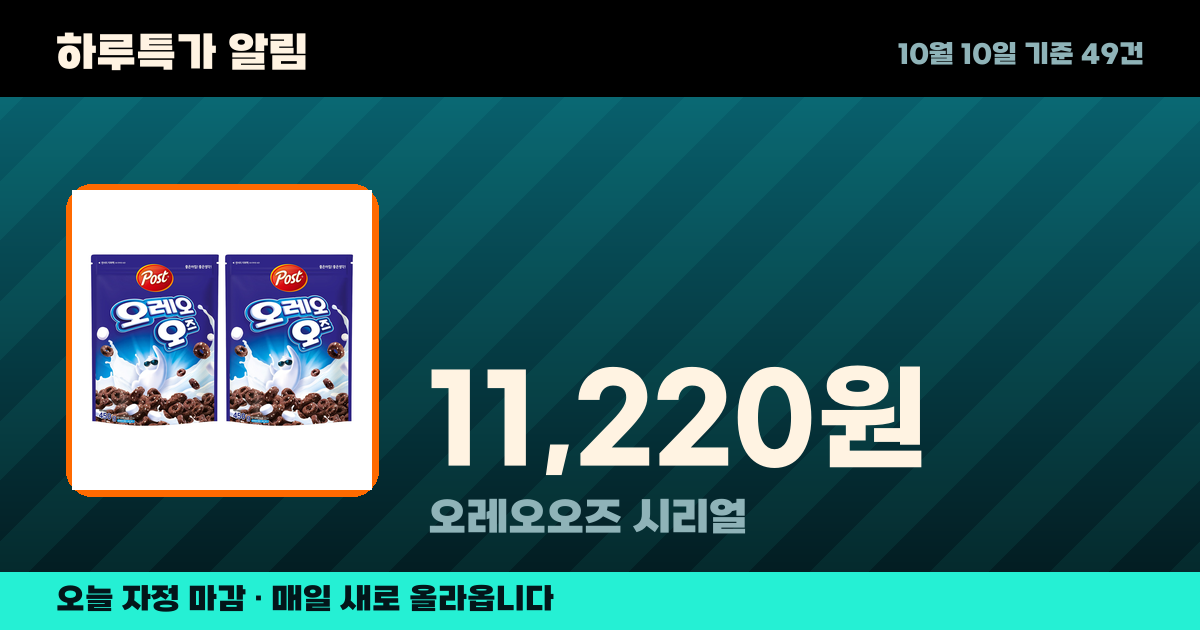
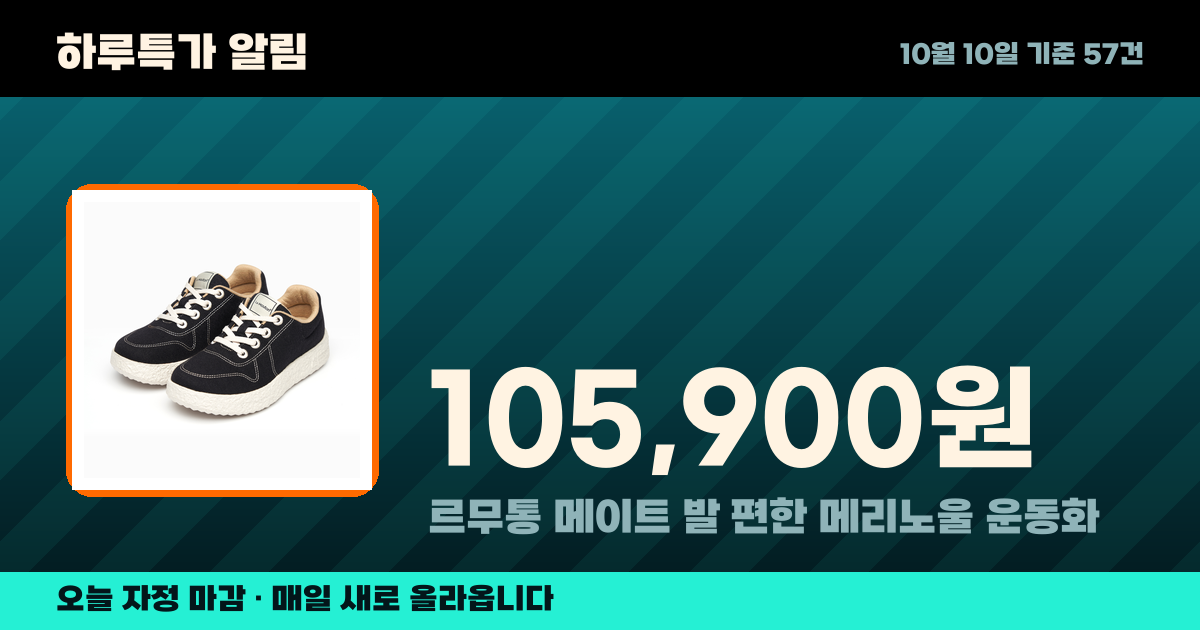
특가 갱신 2026-10-10 01:11

diff --git a/index.html b/index.html
@@ -4,13 +4,13 @@
 <meta charset="utf-8">
 <meta name="viewport" content="width=device-width,initial-scale=1">
 <title>하루특가 알림 — 오늘의 특가 모음</title>
-<meta name="description" content="오늘 49건, 최대 89% 할인. 자정에 끝납니다.">
+<meta name="description" content="오늘 57건, 최대 89% 할인. 자정에 끝납니다.">
 <meta name="robots" content="index,follow">
 <meta property="og:type" content="website">
 <meta property="og:title" content="하루특가 알림 — 오늘의 특가 모음">
-<meta property="og:description" content="오늘 49건, 최대 89% 할인. 자정에 끝납니다.">
+<meta property="og:description" content="오늘 57건, 최대 89% 할인. 자정에 끝납니다.">
 <meta property="og:url" content="https://hjhca12-art.github.io/daily-deal-alarm/">
-<meta property="og:image" content="https://hjhca12-art.github.io/daily-deal-alarm/og.png?v=202610100108">
+<meta property="og:image" content="https://hjhca12-art.github.io/daily-deal-alarm/og.png?v=202610100111">
 <meta property="og:image:width" content="1200">
 <meta property="og:image:height" content="630">
 <meta name="twitter:card" content="summary_large_image">
@@ -185,7 +185,7 @@ footer{margin-top:36px;text-align:center;color:#5d7d83;font-size:11px;
   <div class="tools">
     <input id="q" class="search" type="search" autocomplete="off"
            placeholder="상품 검색 (예: 김치, 커피)">
-    <div class="chips" data-group="cat"><button class="chip on" data-cat="">전체 149</button><button class="chip vid" data-cat="__video">🎬 영상에서 소개한 제품 100</button><button class="chip" data-cat="식품">식품 79</button><button class="chip" data-cat="생활">생활 20</button><button class="chip" data-cat="주방">주방 4</button><button class="chip" data-cat="뷰티">뷰티 5</button><button class="chip" data-cat="건강">건강 4</button><button class="chip" data-cat="홈">홈 4</button><button class="chip" data-cat="디지털">디지털 1</button><button class="chip" data-cat="패션">패션 3</button><button class="chip" data-cat="반려동물">반려동물 1</button><button class="chip" data-cat="여행">여행 1</button><button class="chip" data-cat="기타">기타 27</button></div>
+    <div class="chips" data-group="cat"><button class="chip on" data-cat="">전체 157</button><button class="chip vid" data-cat="__video">🎬 영상에서 소개한 제품 101</button><button class="chip" data-cat="식품">식품 81</button><button class="chip" data-cat="생활">생활 20</button><button class="chip" data-cat="주방">주방 4</button><button class="chip" data-cat="뷰티">뷰티 6</button><button class="chip" data-cat="건강">건강 4</button><button class="chip" data-cat="홈">홈 4</button><button class="chip" data-cat="디지털">디지털 2</button><button class="chip" data-cat="패션">패션 4</button><button class="chip" data-cat="반려동물">반려동물 1</button><button class="chip" data-cat="여행">여행 4</button><button class="chip" data-cat="기타">기타 27</button></div>
     <div class="count"><span id="count"></span> 표시 중</div>
   </div>
   <div id="empty" class="empty">조건에 맞는 상품이 없습니다.</div>
@@ -435,6 +435,19 @@ footer{margin-top:36px;text-align:center;color:#5d7d83;font-size:11px;
       </div>
     </a>
     <a class="card" data-cat="식품"
+       data-name="웨이크비 콜드브루 원액 브라질 세하도, 1l, 1병"
+       data-src="toss" data-video="1"
+       href="https://toss.shopping/_m/dV13Bpyi" target="_blank" rel="nofollow noopener">
+      <img class="thumb" src="https://shopping.toss.im/live/temp/2026-09-04/32f7cf27-c736-4acc-9c0d-552e882e6102.jpeg" alt="" loading="lazy">
+      <div class="body">
+        
+        <div class="name">웨이크비 콜드브루 원액 브라질 세하도, 1L, 1병</div>
+        <div class="row"><span class="rate">54%</span><span class="price">5,900원</span><span class="was">12,900원</span></div>
+        <div class="meta">★ 4.7 · 리뷰 4,504개</div>
+        <div class="track"><svg width="52" height="20" viewBox="0 0 52 20" aria-hidden="true"><polyline points="0.0,2.0 52.0,18.0" fill="none" stroke="#25F0D4" stroke-width="1.6" stroke-linejoin="round" stroke-linecap="round" opacity=".85"/><circle cx="52.0" cy="18.0" r="2.1" fill="#25F0D4"/></svg><span class="trk"><b class="dn">▼ 600원 내림</b>5,900~6,500원 · 2일 추적</span></div>
+      </div>
+    </a>
+    <a class="card" data-cat="식품"
        data-name="통영 바다 장어, 1kg 당 2~4미, 3kg, 1박스"
        data-src="toss"
        href="https://toss.shopping/_m/v6tJ018n" target="_blank" rel="nofollow noopener">
@@ -445,19 +458,6 @@ footer{margin-top:36px;text-align:center;color:#5d7d83;font-size:11px;
         <div class="row"><span class="rate">54%</span><span class="price">27,480원</span><span class="was">59,900원</span></div>
         <div class="meta">★ 4.4 · 리뷰 336개</div>
         
-      </div>
-    </a>
-    <a class="card" data-cat="식품"
-       data-name="웨이크비 콜드브루 원액 브라질 세하도, 1l, 1병"
-       data-src="toss"
-       href="https://toss.shopping/_m/dV13Bpyi" target="_blank" rel="nofollow noopener">
-      <img class="thumb" src="https://shopping.toss.im/live/temp/2026-09-04/32f7cf27-c736-4acc-9c0d-552e882e6102.jpeg" alt="" loading="lazy">
-      <div class="body">
-        
-        <div class="name">웨이크비 콜드브루 원액 브라질 세하도, 1L, 1병</div>
-        <div class="row"><span class="rate">54%</span><span class="price">5,900원</span><span class="was">12,900원</span></div>
-        <div class="meta">★ 4.7 · 리뷰 4,504개</div>
-        <div class="track"><svg width="52" height="20" viewBox="0 0 52 20" aria-hidden="true"><polyline points="0.0,2.0 52.0,18.0" fill="none" stroke="#25F0D4" stroke-width="1.6" stroke-linejoin="round" stroke-linecap="round" opacity=".85"/><circle cx="52.0" cy="18.0" r="2.1" fill="#25F0D4"/></svg><span class="trk"><b class="dn">▼ 600원 내림</b>5,900~6,500원 · 2일 추적</span></div>
       </div>
     </a>
     <a class="card" data-cat="식품"
@@ -2218,18 +2218,122 @@ footer{margin-top:36px;text-align:center;color:#5d7d83;font-size:11px;
   </div>
   <div class="col coupang">
     <div class="colhead">
-      <h2><i></i>쿠팡 골드박스 <em>21</em></h2>
+      <h2><i></i>쿠팡 골드박스 <em>29</em></h2>
       <div class="colnote">✱ 이 페이지는 쿠팡파트너스 활동의 일환으로, 이에 따른 일정액의 수수료를 제공받습니다.</div>
     </div>
     <div class="colbody">
       <section class="">
         <div class="day"><h3>오늘</h3><span class="tag live" data-until="2026-10-11T00:00:00+09:00">계산 중</span><span class="swipe">밀어서 더 보기 →</span></div>
         <div class="grid">
+    <a class="card" data-cat="패션"
+       data-name="르무통 메이트 발 편한 메리노울 운동화"
+       data-src="coupang"
+       href="https://link.coupang.com/re/AFFSDP?lptag=AF9793695&amp;pageKey=6902113163&amp;itemId=18223105928&amp;vendorItemId=83454344514&amp;traceid=V0-143-91d7f95e842a48ba&amp;pt=0&amp;slot=1" target="_blank" rel="nofollow noopener">
+      <img class="thumb" src="https://image15.coupangcdn.com/image/vendor_inventory/59c7/bffae716e1de1c33c0f0a98f1fe0102caaa640a760c6be6efc4349d4be4e.jpg" alt="" loading="lazy">
+      <div class="body">
+        
+        <div class="name">르무통 메이트 발 편한 메리노울 운동화</div>
+        <div class="row"><span class="price">105,900원</span></div>
+        <div class="meta">🚀 로켓배송</div>
+        <div class="track"><svg width="52" height="20" viewBox="0 0 52 20" aria-hidden="true"><polyline points="0.0,2.0 17.3,9.8 34.7,18.0 52.0,18.0" fill="none" stroke="#25F0D4" stroke-width="1.6" stroke-linejoin="round" stroke-linecap="round" opacity=".85"/><circle cx="52.0" cy="18.0" r="2.1" fill="#25F0D4"/></svg><span class="trk"><b class="dn">역대 최저가</b>105,900~118,000원 · 4일 추적</span></div>
+      </div>
+    </a>
+    <a class="card" data-cat="식품"
+       data-name="[행복미트] 돼지 등갈비 수입산 살이 두꺼운 최고의 로인립 구이용 찜용 2kg [당일발송]"
+       data-src="coupang"
+       href="https://link.coupang.com/re/AFFSDP?lptag=AF9793695&amp;pageKey=7577580171&amp;itemId=19996875646&amp;vendorItemId=87094384494&amp;traceid=V0-143-96165fa29bf151a3&amp;pt=0&amp;slot=4" target="_blank" rel="nofollow noopener">
+      <img class="thumb" src="https://img5c.coupangcdn.com/image/vendor_inventory/image_audit/stage/manual/00c57b2390245e02483741fb85f675f0734d4c8d236658cc1e52482c09ee_1776647697370.jpg" alt="" loading="lazy">
+      <div class="body">
+        
+        <div class="name">[행복미트] 돼지 등갈비 수입산 살이 두꺼운 최고의 로인립 구이용 찜용 2kg [당일발송]</div>
+        <div class="row"><span class="price">26,900원</span></div>
+        <div class="meta"></div>
+        <div class="track"><svg width="52" height="20" viewBox="0 0 52 20" aria-hidden="true"><polyline points="0.0,18.0 52.0,18.0" fill="none" stroke="#25F0D4" stroke-width="1.6" stroke-linejoin="round" stroke-linecap="round" opacity=".85"/><circle cx="52.0" cy="18.0" r="2.1" fill="#25F0D4"/></svg><span class="trk"><b class="flat">가격 변동 없음</b>26,900원 유지 · 2일 추적</span></div>
+      </div>
+    </a>
+    <a class="card" data-cat="뷰티"
+       data-name="해피바스 오리지널컬렉션 고보습 산양유 바디워시 바닐라 머스크향 910g"
+       data-src="coupang"
+       href="https://link.coupang.com/re/AFFSDP?lptag=AF9793695&amp;pageKey=9749274306&amp;itemId=29191314252&amp;vendorItemId=96112180075&amp;traceid=V0-143-ef3910984d944c7c&amp;pt=0&amp;slot=6" target="_blank" rel="nofollow noopener">
+      <img class="thumb" src="https://img2c.coupangcdn.com/image/retail/images/2026/09/28/13/3/22811a3d-32b2-4c35-a6ca-ab21e7598244.jpg" alt="" loading="lazy">
+      <div class="body">
+        
+        <div class="name">해피바스 오리지널컬렉션 고보습 산양유 바디워시 바닐라 머스크향 910g</div>
+        <div class="row"><span class="price">9,900원</span></div>
+        <div class="meta">🚀 로켓배송</div>
+        <div class="track"><svg width="52" height="20" viewBox="0 0 52 20" aria-hidden="true"><polyline points="0.0,18.0 52.0,18.0" fill="none" stroke="#25F0D4" stroke-width="1.6" stroke-linejoin="round" stroke-linecap="round" opacity=".85"/><circle cx="52.0" cy="18.0" r="2.1" fill="#25F0D4"/></svg><span class="trk"><b class="flat">가격 변동 없음</b>9,900원 유지 · 2일 추적</span></div>
+      </div>
+    </a>
+    <a class="card" data-cat="여행"
+       data-name="★한정수량★ [a].14시 2인 입장권 (주중/주말 공통)"
+       data-src="coupang"
+       href="https://link.coupang.com/re/AFFTDP?lptag=AF9793695&amp;pageKey=10000011520190&amp;vendorItemId=70000315866489&amp;itemId=20002254220288&amp;traceid=V0-143-406574e24d648ffc&amp;pt=0&amp;slot=11" target="_blank" rel="nofollow noopener">
+      <img class="thumb" src="https://image8.coupangcdn.com/image/travel_reactor/travelSeller/common/A00221268/f24516fc-7a84-4a5a-a900-a16629b786a8.jpg" alt="" loading="lazy">
+      <div class="body">
+        
+        <div class="name">★한정수량★ [A].14시 2인 입장권 (주중/주말 공통)</div>
+        <div class="row"><span class="price">78,000원</span></div>
+        <div class="meta"></div>
+        <div class="track"><svg width="52" height="20" viewBox="0 0 52 20" aria-hidden="true"><polyline points="0.0,18.0 52.0,18.0" fill="none" stroke="#25F0D4" stroke-width="1.6" stroke-linejoin="round" stroke-linecap="round" opacity=".85"/><circle cx="52.0" cy="18.0" r="2.1" fill="#25F0D4"/></svg><span class="trk"><b class="flat">가격 변동 없음</b>78,000원 유지 · 2일 추적</span></div>
+      </div>
+    </a>
+    <a class="card" data-cat="디지털"
+       data-name="프리티케어 로봇청소기 강력흡입 맵핑 자율주행 물걸레 자동충전 대용량 가정용"
+       data-src="coupang"
+       href="https://link.coupang.com/re/AFFSDP?lptag=AF9793695&amp;pageKey=8327575463&amp;itemId=24040659695&amp;vendorItemId=91060893075&amp;traceid=V0-143-c917cc132b6ee31a&amp;pt=0&amp;slot=17" target="_blank" rel="nofollow noopener">
+      <img class="thumb" src="https://img4a.coupangcdn.com/image/vendor_inventory/b9b5/2f9f49667070c39268ecccbf610b84ddfd34b5ba6badb6974e38e2e76938.png" alt="" loading="lazy">
+      <div class="body">
+        
+        <div class="name">프리티케어 로봇청소기 강력흡입 맵핑 자율주행 물걸레 자동충전 대용량 가정용</div>
+        <div class="row"><span class="price">124,840원</span></div>
+        <div class="meta">🚀 로켓배송</div>
+        <div class="track"><svg width="52" height="20" viewBox="0 0 52 20" aria-hidden="true"><polyline points="0.0,2.0 17.3,18.0 34.7,18.0 52.0,18.0" fill="none" stroke="#25F0D4" stroke-width="1.6" stroke-linejoin="round" stroke-linecap="round" opacity=".85"/><circle cx="52.0" cy="18.0" r="2.1" fill="#25F0D4"/></svg><span class="trk"><b class="dn">역대 최저가</b>124,840~129,900원 · 4일 추적</span></div>
+      </div>
+    </a>
+    <a class="card" data-cat="여행"
+       data-name="★종일 종합이용권 1인"
+       data-src="coupang"
+       href="https://link.coupang.com/re/AFFTDP?lptag=AF9793695&amp;pageKey=10000011519772&amp;vendorItemId=70000315654806&amp;itemId=20002253907448&amp;traceid=V0-143-c52ffb25483e24f7&amp;pt=0&amp;slot=20" target="_blank" rel="nofollow noopener">
+      <img class="thumb" src="https://image7.coupangcdn.com/image/travel_reactor/travelSeller/common/A01310517/06f9c067-99a5-478b-af55-20ebd0bb1618.jpg" alt="" loading="lazy">
+      <div class="body">
+        
+        <div class="name">★종일 종합이용권 1인</div>
+        <div class="row"><span class="price">67,000원</span></div>
+        <div class="meta"></div>
+        <div class="track"><svg width="52" height="20" viewBox="0 0 52 20" aria-hidden="true"><polyline points="0.0,18.0 52.0,18.0" fill="none" stroke="#25F0D4" stroke-width="1.6" stroke-linejoin="round" stroke-linecap="round" opacity=".85"/><circle cx="52.0" cy="18.0" r="2.1" fill="#25F0D4"/></svg><span class="trk"><b class="flat">가격 변동 없음</b>67,000원 유지 · 2일 추적</span></div>
+      </div>
+    </a>
+    <a class="card" data-cat="여행"
+       data-name="★롯데월드 아쿠아리움 1인권(~10/18)"
+       data-src="coupang"
+       href="https://link.coupang.com/re/AFFTDP?lptag=AF9793695&amp;pageKey=10000011518289&amp;vendorItemId=70000315554745&amp;itemId=20002253759561&amp;traceid=V0-143-ac71082101f6015a&amp;pt=0&amp;slot=25" target="_blank" rel="nofollow noopener">
+      <img class="thumb" src="https://img2c.coupangcdn.com/image/travel_reactor/travelSeller/common/A01310517/1642e795-afe8-484a-814c-db57b59d4aba.jpg" alt="" loading="lazy">
+      <div class="body">
+        
+        <div class="name">★롯데월드 아쿠아리움 1인권(~10/18)</div>
+        <div class="row"><span class="price">37,000원</span></div>
+        <div class="meta"></div>
+        <div class="track"><svg width="52" height="20" viewBox="0 0 52 20" aria-hidden="true"><polyline points="0.0,18.0 52.0,18.0" fill="none" stroke="#25F0D4" stroke-width="1.6" stroke-linejoin="round" stroke-linecap="round" opacity=".85"/><circle cx="52.0" cy="18.0" r="2.1" fill="#25F0D4"/></svg><span class="trk"><b class="flat">가격 변동 없음</b>37,000원 유지 · 2일 추적</span></div>
+      </div>
+    </a>
+    <a class="card" data-cat="식품"
+       data-name="군산 박대 특품 손질 반건조 박대 구이 조림용"
+       data-src="coupang"
+       href="https://link.coupang.com/re/AFFSDP?lptag=AF9793695&amp;pageKey=9413121153&amp;itemId=27969846426&amp;vendorItemId=94927451964&amp;traceid=V0-143-42c3f41a56c05e76&amp;pt=0&amp;slot=27" target="_blank" rel="nofollow noopener">
+      <img class="thumb" src="https://image4.coupangcdn.com/image/vendor_inventory/a728/f14e527441d95541458ede52165b3703124e149890719885c39984e501b5.jpg" alt="" loading="lazy">
+      <div class="body">
+        
+        <div class="name">군산 박대 특품 손질 반건조 박대 구이 조림용</div>
+        <div class="row"><span class="price">43,650원</span></div>
+        <div class="meta"></div>
+        <div class="track"><svg width="52" height="20" viewBox="0 0 52 20" aria-hidden="true"><polyline points="0.0,18.0 52.0,18.0" fill="none" stroke="#25F0D4" stroke-width="1.6" stroke-linejoin="round" stroke-linecap="round" opacity=".85"/><circle cx="52.0" cy="18.0" r="2.1" fill="#25F0D4"/></svg><span class="trk"><b class="flat">가격 변동 없음</b>43,650원 유지 · 2일 추적</span></div>
+      </div>
+    </a>
     <a class="card" data-cat="식품"
        data-name="오레오오즈 시리얼"
        data-src="coupang"
        href="https://link.coupang.com/re/AFFSDP?lptag=AF9793695&amp;pageKey=193435167&amp;itemId=27113937412&amp;vendorItemId=94082022694&amp;traceid=V0-143-2c70e824b4e59f6f&amp;pt=0&amp;slot=2" target="_blank" rel="nofollow noopener">
-      <img class="thumb" src="https://image7.coupangcdn.com/image/retail/images/239114803017380-dc4ab663-350c-4501-b274-3b2970c32128.jpg" alt="" loading="lazy">
+      <img class="thumb" src="https://image13.coupangcdn.com/image/retail/images/239114803017380-dc4ab663-350c-4501-b274-3b2970c32128.jpg" alt="" loading="lazy">
       <div class="body">
         
         <div class="name">오레오오즈 시리얼</div>
@@ -2242,7 +2346,7 @@ footer{margin-top:36px;text-align:center;color:#5d7d83;font-size:11px;
        data-name="매일두유 99.9 서리태"
        data-src="coupang"
        href="https://link.coupang.com/re/AFFSDP?lptag=AF9793695&amp;pageKey=9517837745&amp;itemId=28369947512&amp;vendorItemId=95322345846&amp;traceid=V0-143-eeae57216ff555e3&amp;pt=0&amp;slot=3" target="_blank" rel="nofollow noopener">
-      <img class="thumb" src="https://image5.coupangcdn.com/image/retail/images/372004234278260-b3618843-c949-4f19-aea9-7964af03adda.jpg" alt="" loading="lazy">
+      <img class="thumb" src="https://img1a.coupangcdn.com/image/retail/images/372004234278260-b3618843-c949-4f19-aea9-7964af03adda.jpg" alt="" loading="lazy">
       <div class="body">
         
         <div class="name">매일두유 99.9 서리태</div>
@@ -2255,12 +2359,12 @@ footer{margin-top:36px;text-align:center;color:#5d7d83;font-size:11px;
        data-name="노마진 반려견 배변패드"
        data-src="coupang"
        href="https://link.coupang.com/re/AFFSDP?lptag=AF9793695&amp;pageKey=9724704214&amp;itemId=29101494244&amp;vendorItemId=3242511110&amp;traceid=V0-143-23fd5b7e037e0b8e&amp;pt=0&amp;slot=5" target="_blank" rel="nofollow noopener">
-      <img class="thumb" src="https://image4.coupangcdn.com/image/retail/images/1849576578615068-932419f6-5a58-4f59-9dbd-d164b33c3466.jpg" alt="" loading="lazy">
+      <img class="thumb" src="https://image2.coupangcdn.com/image/retail/images/1849576578615068-932419f6-5a58-4f59-9dbd-d164b33c3466.jpg" alt="" loading="lazy">
       <div class="body">
         
         <div class="name">노마진 반려견 배변패드</div>
         <div class="row"><span class="price">34,540원</span></div>
-        <div class="meta">🚀 로켓배송</div>
+        <div class="meta"></div>
         
       </div>
     </a>
@@ -2268,7 +2372,7 @@ footer{margin-top:36px;text-align:center;color:#5d7d83;font-size:11px;
        data-name="실리쿡 하프트레이"
        data-src="coupang"
        href="https://link.coupang.com/re/AFFSDP?lptag=AF9793695&amp;pageKey=109266725&amp;itemId=330635943&amp;vendorItemId=3811141491&amp;traceid=V0-143-3736cc6bbdf78ff5&amp;pt=0&amp;slot=7" target="_blank" rel="nofollow noopener">
-      <img class="thumb" src="https://img3a.coupangcdn.com/image/retail/images/155056353358925-7c521d4a-dbc6-4e43-b5da-1678403d0e91.jpg" alt="" loading="lazy">
+      <img class="thumb" src="https://image2.coupangcdn.com/image/retail/images/155056353358925-7c521d4a-dbc6-4e43-b5da-1678403d0e91.jpg" alt="" loading="lazy">
       <div class="body">
         
         <div class="name">실리쿡 하프트레이</div>
@@ -2281,7 +2385,7 @@ footer{margin-top:36px;text-align:center;color:#5d7d83;font-size:11px;
        data-name="그래이불 국내산 순수 오가닉 코튼100 호텔 침구세트"
        data-src="coupang"
        href="https://link.coupang.com/re/AFFSDP?lptag=AF9793695&amp;pageKey=7144500188&amp;itemId=17947927380&amp;vendorItemId=85105669970&amp;traceid=V0-143-919f2792a93a269f&amp;pt=0&amp;slot=8" target="_blank" rel="nofollow noopener">
-      <img class="thumb" src="https://image5.coupangcdn.com/image/retail/images/2811751906294-71deaffe-32fa-424e-a113-5822300427ef.jpg" alt="" loading="lazy">
+      <img class="thumb" src="https://img5c.coupangcdn.com/image/retail/images/2811751906294-71deaffe-32fa-424e-a113-5822300427ef.jpg" alt="" loading="lazy">
       <div class="body">
         
         <div class="name">그래이불 국내산 순수 오가닉 코튼100 호텔 침구세트</div>
@@ -2294,12 +2398,12 @@ footer{margin-top:36px;text-align:center;color:#5d7d83;font-size:11px;
        data-name="오트리 고메넛츠"
        data-src="coupang"
        href="https://link.coupang.com/re/AFFSDP?lptag=AF9793695&amp;pageKey=64553251&amp;itemId=218629802&amp;vendorItemId=3528518642&amp;traceid=V0-143-f9b3033ab9d1146c&amp;pt=0&amp;slot=9" target="_blank" rel="nofollow noopener">
-      <img class="thumb" src="https://image14.coupangcdn.com/image/retail/images/1767520973711315-377f4091-cd76-4e86-ac91-de79f6d2eb98.jpg" alt="" loading="lazy">
+      <img class="thumb" src="https://image3.coupangcdn.com/image/retail/images/1767520973711315-377f4091-cd76-4e86-ac91-de79f6d2eb98.jpg" alt="" loading="lazy">
       <div class="body">
         
         <div class="name">오트리 고메넛츠</div>
         <div class="row"><span class="price">50,850원</span></div>
-        <div class="meta">🚀 로켓배송</div>
+        <div class="meta"></div>
         
       </div>
     </a>
@@ -2307,7 +2411,7 @@ footer{margin-top:36px;text-align:center;color:#5d7d83;font-size:11px;
        data-name="유어삭스 여성용 구멍no 앞코 두겹 보강 흘러내림 없는 골지양말 8켤레"
        data-src="coupang"
        href="https://link.coupang.com/re/AFFSDP?lptag=AF9793695&amp;pageKey=8643435079&amp;itemId=25086854291&amp;vendorItemId=93096234100&amp;traceid=V0-143-80258750509f29ef&amp;pt=0&amp;slot=10" target="_blank" rel="nofollow noopener">
-      <img class="thumb" src="https://img4c.coupangcdn.com/image/retail/images/327315181414734-0f72a6e7-7f4b-45f6-965c-d680b823cb67.jpg" alt="" loading="lazy">
+      <img class="thumb" src="https://image3.coupangcdn.com/image/retail/images/327315181414734-0f72a6e7-7f4b-45f6-965c-d680b823cb67.jpg" alt="" loading="lazy">
       <div class="body">
         
         <div class="name">유어삭스 여성용 구멍NO 앞코 두겹 보강 흘러내림 없는 골지양말 8켤레</div>
@@ -2320,7 +2424,7 @@ footer{margin-top:36px;text-align:center;color:#5d7d83;font-size:11px;
        data-name="투코비 코마 점보플러스 무선 연필깎이 tc-m5"
        data-src="coupang"
        href="https://link.coupang.com/re/AFFSDP?lptag=AF9793695&amp;pageKey=7810065193&amp;itemId=21181373629&amp;vendorItemId=88242785150&amp;traceid=V0-143-79e594fec3b88f9b&amp;pt=0&amp;slot=12" target="_blank" rel="nofollow noopener">
-      <img class="thumb" src="https://img2a.coupangcdn.com/image/retail/images/1745132892138206-cae67409-84c1-41ca-853d-33ac4c2a15b4.jpg" alt="" loading="lazy">
+      <img class="thumb" src="https://image5.coupangcdn.com/image/retail/images/1745132892138206-cae67409-84c1-41ca-853d-33ac4c2a15b4.jpg" alt="" loading="lazy">
       <div class="body">
         
         <div class="name">투코비 코마 점보플러스 무선 연필깎이 TC-M5</div>
@@ -2333,7 +2437,7 @@ footer{margin-top:36px;text-align:center;color:#5d7d83;font-size:11px;
        data-name="[로켓프레시] 모아바이오팜 당도선별 샤인머스캣 2~4송이"
        data-src="coupang"
        href="https://link.coupang.com/re/AFFSDP?lptag=AF9793695&amp;pageKey=9010033984&amp;itemId=26981230858&amp;vendorItemId=93950068509&amp;traceid=V0-143-bfbeda11758aceb2&amp;pt=0&amp;slot=13" target="_blank" rel="nofollow noopener">
-      <img class="thumb" src="https://image8.coupangcdn.com/image/rs_quotation_api/1sddmvj8/107c153cf7f545e6afa1b7d51a52ba96.jpg" alt="" loading="lazy">
+      <img class="thumb" src="https://static.coupangcdn.com/image/rs_quotation_api/1sddmvj8/107c153cf7f545e6afa1b7d51a52ba96.jpg" alt="" loading="lazy">
       <div class="body">
         
         <div class="name">[로켓프레시] 모아바이오팜 당도선별 샤인머스캣 2~4송이</div>
@@ -2346,12 +2450,12 @@ footer{margin-top:36px;text-align:center;color:#5d7d83;font-size:11px;
        data-name="코멧 이동접이식 빨래건조대 특대형"
        data-src="coupang"
        href="https://link.coupang.com/re/AFFSDP?lptag=AF9793695&amp;pageKey=4852504331&amp;itemId=6285244965&amp;vendorItemId=73580812531&amp;traceid=V0-143-92928ea42794edf5&amp;pt=0&amp;slot=14" target="_blank" rel="nofollow noopener">
-      <img class="thumb" src="https://image6.coupangcdn.com/image/retail/images/100727588212479-5674a7fe-e93a-46f9-b335-c33e08ed80c6.jpg" alt="" loading="lazy">
+      <img class="thumb" src="https://img1c.coupangcdn.com/image/retail/images/100727588212479-5674a7fe-e93a-46f9-b335-c33e08ed80c6.jpg" alt="" loading="lazy">
       <div class="body">
         
         <div class="name">코멧 이동접이식 빨래건조대 특대형</div>
         <div class="row"><span class="price">24,470원</span></div>
-        <div class="meta">🚀 로켓배송</div>
+        <div class="meta"></div>
         <div class="track"><svg width="52" height="20" viewBox="0 0 52 20" aria-hidden="true"><polyline points="0.0,18.0 52.0,2.0" fill="none" stroke="#FF8A3D" stroke-width="1.6" stroke-linejoin="round" stroke-linecap="round" opacity=".85"/><circle cx="52.0" cy="2.0" r="2.1" fill="#FF8A3D"/></svg><span class="trk"><b class="up">▲ 3,500원 오름</b>20,970~24,470원 · 2일 추적</span></div>
       </div>
     </a>
@@ -2372,7 +2476,7 @@ footer{margin-top:36px;text-align:center;color:#5d7d83;font-size:11px;
        data-name="[공식몰] whiff 위프 탈취제 화장실 집안 방 홀애비 실내 악취 냄새 탈취제 제거제 편백 오일 함유 300g"
        data-src="coupang"
        href="https://link.coupang.com/re/AFFSDP?lptag=AF9793695&amp;pageKey=9394666815&amp;itemId=28085032329&amp;vendorItemId=94208637832&amp;traceid=V0-143-3de45cf95d2cf7ed&amp;pt=0&amp;slot=16" target="_blank" rel="nofollow noopener">
-      <img class="thumb" src="https://img2c.coupangcdn.com/image/vendor_inventory/images/4e172e63-853e-47c1-88d9-cba0f2b2389116159366720681824357.png" alt="" loading="lazy">
+      <img class="thumb" src="https://image13.coupangcdn.com/image/vendor_inventory/images/4e172e63-853e-47c1-88d9-cba0f2b2389116159366720681824357.png" alt="" loading="lazy">
       <div class="body">
         
         <div class="name">[공식몰] WHIFF 위프 탈취제 화장실 집안 방 홀애비 실내 악취 냄새 탈취제 제거제 편백 오일 함유 300g</div>
@@ -2385,7 +2489,7 @@ footer{margin-top:36px;text-align:center;color:#5d7d83;font-size:11px;
        data-name="자연은 더말린 제로 애플망고"
        data-src="coupang"
        href="https://link.coupang.com/re/AFFSDP?lptag=AF9793695&amp;pageKey=7164022231&amp;itemId=17903607840&amp;vendorItemId=85189440218&amp;traceid=V0-143-01fce8df1d843e57&amp;pt=0&amp;slot=18" target="_blank" rel="nofollow noopener">
-      <img class="thumb" src="https://image6.coupangcdn.com/image/retail/images/2577436651362385-e482d36c-9eae-4aa3-92f8-8da6d40b0f05.jpg" alt="" loading="lazy">
+      <img class="thumb" src="https://img5c.coupangcdn.com/image/retail/images/2577436651362385-e482d36c-9eae-4aa3-92f8-8da6d40b0f05.jpg" alt="" loading="lazy">
       <div class="body">
         
         <div class="name">자연은 더말린 제로 애플망고</div>
@@ -2398,7 +2502,7 @@ footer{margin-top:36px;text-align:center;color:#5d7d83;font-size:11px;
        data-name="위칙 소독 섬유유연제 본품"
        data-src="coupang"
        href="https://link.coupang.com/re/AFFSDP?lptag=AF9793695&amp;pageKey=7429410266&amp;itemId=19292423636&amp;vendorItemId=85764060260&amp;traceid=V0-143-ae13bdfea43d5b7f&amp;pt=0&amp;slot=19" target="_blank" rel="nofollow noopener">
-      <img class="thumb" src="https://img5a.coupangcdn.com/image/1025_amir_coupang_oct_80k/5028/7ea8d8c267e407eec9986436e4ae707d14bbf178ad4ad756c9f131378708.jpg" alt="" loading="lazy">
+      <img class="thumb" src="https://static.coupangcdn.com/image/1025_amir_coupang_oct_80k/5028/7ea8d8c267e407eec9986436e4ae707d14bbf178ad4ad756c9f131378708.jpg" alt="" loading="lazy">
       <div class="body">
         
         <div class="name">위칙 소독 섬유유연제 본품</div>
@@ -2411,7 +2515,7 @@ footer{margin-top:36px;text-align:center;color:#5d7d83;font-size:11px;
        data-name="[로켓프레시] 알찬해 바로바로 낙새우 볶음 (냉동)"
        data-src="coupang"
        href="https://link.coupang.com/re/AFFSDP?lptag=AF9793695&amp;pageKey=7282209095&amp;itemId=18594602213&amp;vendorItemId=85730784252&amp;traceid=V0-143-2208246efdca74be&amp;pt=0&amp;slot=21" target="_blank" rel="nofollow noopener">
-      <img class="thumb" src="https://img3c.coupangcdn.com/image/retail/images/2023/04/18/16/6/462ffd56-cfe9-4a43-a678-32926da90591.jpg" alt="" loading="lazy">
+      <img class="thumb" src="https://img5a.coupangcdn.com/image/retail/images/2023/04/18/16/6/462ffd56-cfe9-4a43-a678-32926da90591.jpg" alt="" loading="lazy">
       <div class="body">
         
         <div class="name">[로켓프레시] 알찬해 바로바로 낙새우 볶음 (냉동)</div>
@@ -2424,7 +2528,7 @@ footer{margin-top:36px;text-align:center;color:#5d7d83;font-size:11px;
        data-name="스카치 컴팩트 원터치 디스펜서"
        data-src="coupang"
        href="https://link.coupang.com/re/AFFSDP?lptag=AF9793695&amp;pageKey=9181695461&amp;itemId=27078211224&amp;vendorItemId=94046490898&amp;traceid=V0-143-56e8da7bffb53608&amp;pt=0&amp;slot=22" target="_blank" rel="nofollow noopener">
-      <img class="thumb" src="https://img2c.coupangcdn.com/image/retail/images/2025/11/11/17/3/234e9d63-59dd-4a07-a524-760f38ef2c6e.jpg" alt="" loading="lazy">
+      <img class="thumb" src="https://img2a.coupangcdn.com/image/retail/images/2025/11/11/17/3/234e9d63-59dd-4a07-a524-760f38ef2c6e.jpg" alt="" loading="lazy">
       <div class="body">
         
         <div class="name">스카치 컴팩트 원터치 디스펜서</div>
@@ -2437,7 +2541,7 @@ footer{margin-top:36px;text-align:center;color:#5d7d83;font-size:11px;
        data-name="엄마랑 낱말카드 150장 세이펜 호환"
        data-src="coupang"
        href="https://link.coupang.com/re/AFFSDP?lptag=AF9793695&amp;pageKey=1762998328&amp;itemId=3002502362&amp;vendorItemId=70990737707&amp;traceid=V0-143-476173c8dcf73808&amp;pt=0&amp;slot=23" target="_blank" rel="nofollow noopener">
-      <img class="thumb" src="https://image11.coupangcdn.com/image/1025_amir_coupang_oct_80k/2c2f/bc60d6ba72285d3bed0e205f09169bc26eed3ecd90f98287fc0a4193c378.jpg" alt="" loading="lazy">
+      <img class="thumb" src="https://image1.coupangcdn.com/image/1025_amir_coupang_oct_80k/2c2f/bc60d6ba72285d3bed0e205f09169bc26eed3ecd90f98287fc0a4193c378.jpg" alt="" loading="lazy">
       <div class="body">
         
         <div class="name">엄마랑 낱말카드 150장 세이펜 호환</div>
@@ -2450,7 +2554,7 @@ footer{margin-top:36px;text-align:center;color:#5d7d83;font-size:11px;
        data-name="[골드박스] ★연휴찬스★ 경주월드 종일권(~10/11) 소인"
        data-src="coupang"
        href="https://link.coupang.com/re/AFFTDP?lptag=AF9793695&amp;pageKey=10000011390557&amp;vendorItemId=70000316472104&amp;itemId=20002255221867&amp;traceid=V0-143-9342c92395bbafa3&amp;pt=0&amp;slot=24" target="_blank" rel="nofollow noopener">
-      <img class="thumb" src="https://image9.coupangcdn.com/image/travel_reactor/travelSeller/common/A00197835/9abcfaed-57dc-4ee6-8088-4f031be10887.jpg" alt="" loading="lazy">
+      <img class="thumb" src="https://img3c.coupangcdn.com/image/travel_reactor/travelSeller/common/A00197835/9abcfaed-57dc-4ee6-8088-4f031be10887.jpg" alt="" loading="lazy">
       <div class="body">
         
         <div class="name">[골드박스] ★연휴찬스★ 경주월드 종일권(~10/11) 소인</div>
@@ -2463,7 +2567,7 @@ footer{margin-top:36px;text-align:center;color:#5d7d83;font-size:11px;
        data-name="에르먼 국내 제조 pio 2단 쿠션 발받침대 기본형"
        data-src="coupang"
        href="https://link.coupang.com/re/AFFSDP?lptag=AF9793695&amp;pageKey=7830616996&amp;itemId=21296233575&amp;vendorItemId=88355996678&amp;traceid=V0-143-bb8bb51762aa0d79&amp;pt=0&amp;slot=26" target="_blank" rel="nofollow noopener">
-      <img class="thumb" src="https://image9.coupangcdn.com/image/1025_amir_coupang_oct_80k/5414/5750b19c727e412403d98372481e7e9031f5d2c550f015c2f5d665d4121d.jpg" alt="" loading="lazy">
+      <img class="thumb" src="https://image12.coupangcdn.com/image/1025_amir_coupang_oct_80k/5414/5750b19c727e412403d98372481e7e9031f5d2c550f015c2f5d665d4121d.jpg" alt="" loading="lazy">
       <div class="body">
         
         <div class="name">에르먼 국내 제조 PIO 2단 쿠션 발받침대 기본형</div>
@@ -2476,7 +2580,7 @@ footer{margin-top:36px;text-align:center;color:#5d7d83;font-size:11px;
        data-name="아이캔컴퍼니 국내생산 e0 900 lpm 4단 높이조절 베이직 접이식 테이블"
        data-src="coupang"
        href="https://link.coupang.com/re/AFFSDP?lptag=AF9793695&amp;pageKey=8427769030&amp;itemId=15270935930&amp;vendorItemId=82491458235&amp;traceid=V0-143-5796a6dff1eae7d4&amp;pt=0&amp;slot=28" target="_blank" rel="nofollow noopener">
-      <img class="thumb" src="https://image6.coupangcdn.com/image/vendor_inventory/0fea/a537209001e92ae0f2e5374120f46ce2f16676137c5eebf14f2d1139d4a3.jpg" alt="" loading="lazy">
+      <img class="thumb" src="https://image10.coupangcdn.com/image/vendor_inventory/0fea/a537209001e92ae0f2e5374120f46ce2f16676137c5eebf14f2d1139d4a3.jpg" alt="" loading="lazy">
       <div class="body">
         
         <div class="name">아이캔컴퍼니 국내생산 E0 900 LPM 4단 높이조절 베이직 접이식 테이블</div>
@@ -2489,7 +2593,7 @@ footer{margin-top:36px;text-align:center;color:#5d7d83;font-size:11px;
        data-name="랩신 v3 항균 스프레이 살균제"
        data-src="coupang"
        href="https://link.coupang.com/re/AFFSDP?lptag=AF9793695&amp;pageKey=6939595123&amp;itemId=18626984078&amp;vendorItemId=85762356876&amp;traceid=V0-143-7ad00f367c21a338&amp;pt=0&amp;slot=29" target="_blank" rel="nofollow noopener">
-      <img class="thumb" src="https://img3a.coupangcdn.com/image/retail/images/487470401213911-94444051-d6be-44a1-9651-ca56fa43a56a.jpg" alt="" loading="lazy">
+      <img class="thumb" src="https://img3c.coupangcdn.com/image/retail/images/487470401213911-94444051-d6be-44a1-9651-ca56fa43a56a.jpg" alt="" loading="lazy">
       <div class="body">
         
         <div class="name">랩신 V3 항균 스프레이 살균제</div>
@@ -2505,7 +2609,7 @@ footer{margin-top:36px;text-align:center;color:#5d7d83;font-size:11px;
   </div>
 
   <footer>
-    마지막 업데이트 2026년 10월 10일 01:08<br>
+    마지막 업데이트 2026년 10월 10일 01:11<br>
     가격과 재고는 판매처 사정으로 변경될 수 있습니다.<br>
     <a href="privacy.html">개인정보처리방침</a>
   </footer>
